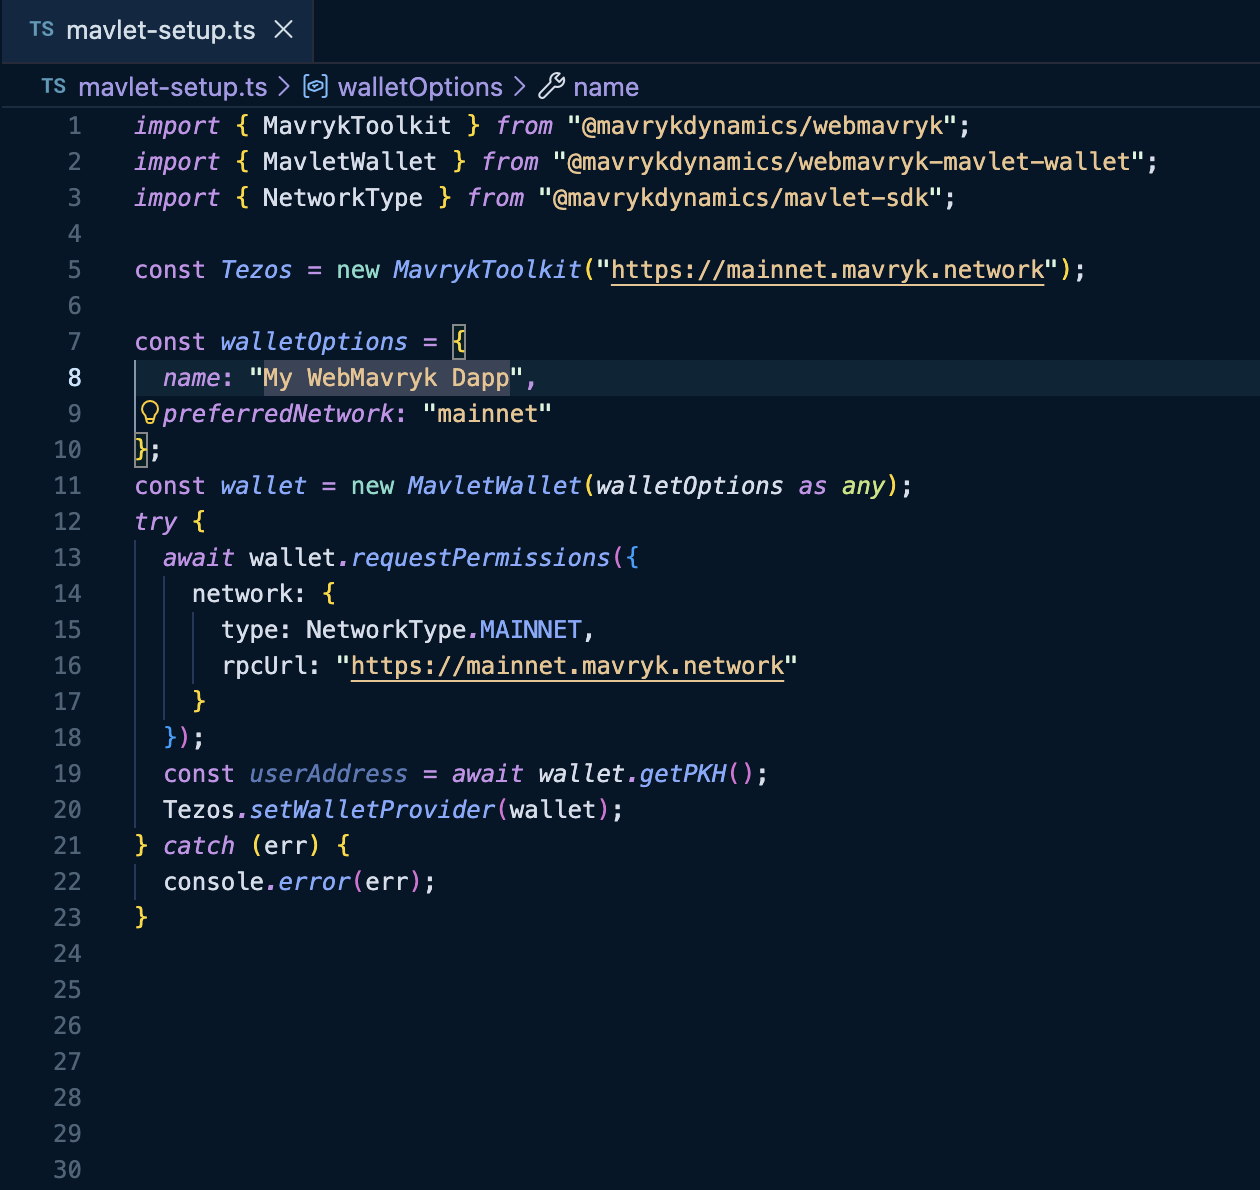
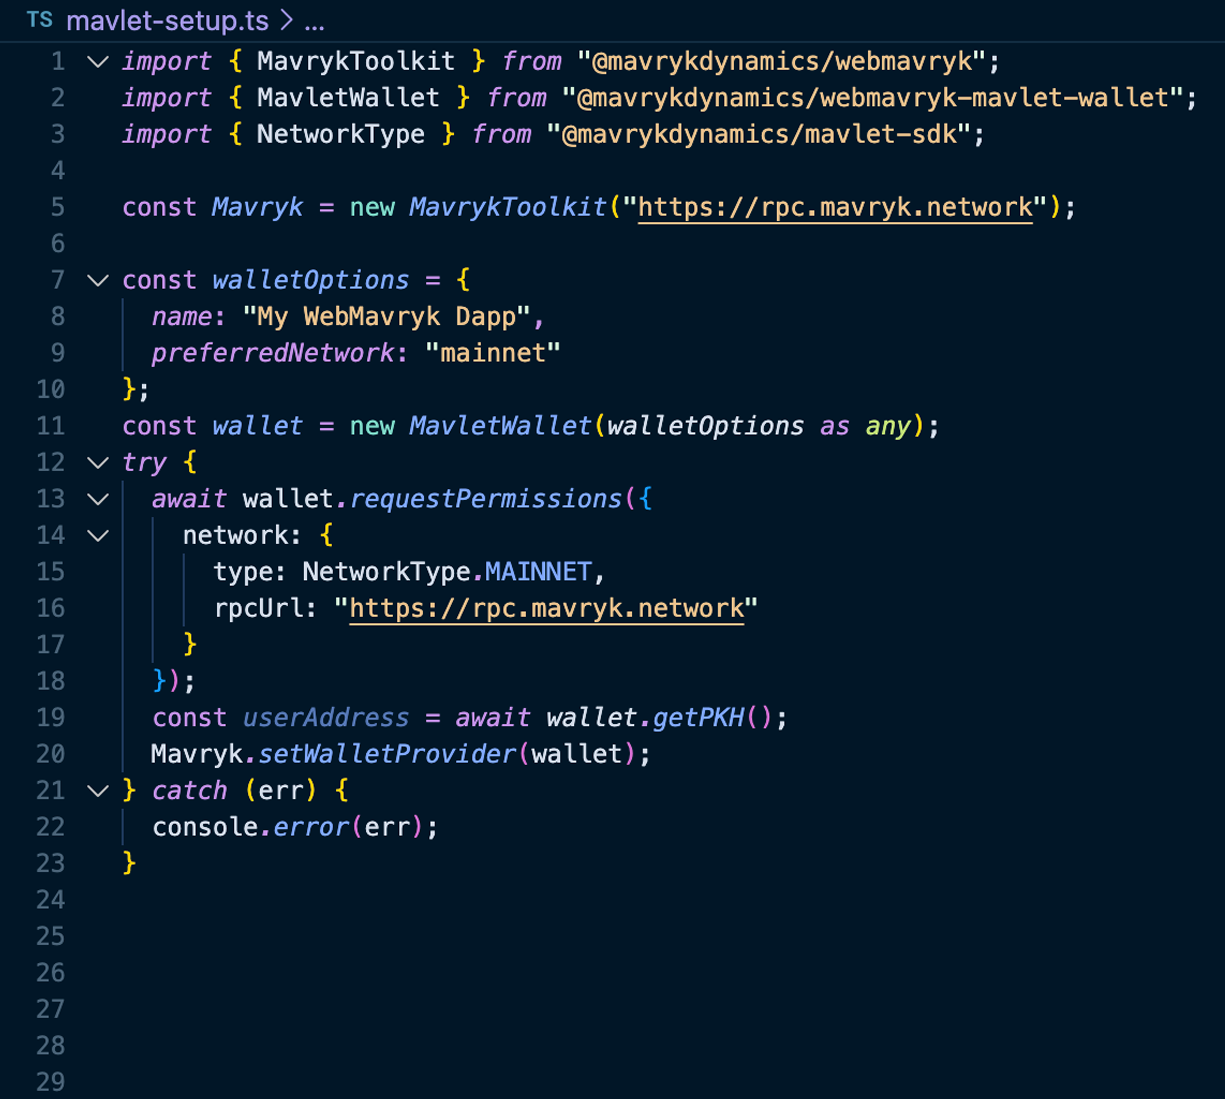
Documentation fixed

Changed region(s): [[0.0, 0.0, 1.0, 1.0]]

diff --git a/website/src/css/custom.scss b/website/src/css/custom.scss
@@ -12,6 +12,7 @@
   --blue-primary: #4169E1;
   --blue-secondary: #5B8DEF;
   --blue-accent: #3B82F6;
+  --blue-card-border: #5878B4;
   --red: #ac0000;
   --brown: #d3832b;
   --green: #71a417;
@@ -25,9 +26,9 @@
   --black: #1E293B;
   --white: #ffffff;
   --twitter-svg: url('../../static/img/XSVG-white.svg') no-repeat;
-  --github-svg: url('../../static/img/githubSVG-white.svg') no-repeat;
-  --github-svg-reverse: url('../../static/img/github-svg-white.svg') no-repeat;
-  --telegram-svg: url('../../static/img/telegramSVG.svg') no-repeat;
+  --github-svg: url('../../static/img/github-svg-white.svg') no-repeat;
+  --github-svg-reverse: url('../../static/img/githubSVG-white.svg') no-repeat;
+  --telegram-svg: url('../../static/img/telegram-svg-white.svg') no-repeat;
   --discord-svg: url('../../static/img/discord-mark-white.svg') no-repeat;
   --brown-secondary: #975b19;
   --background-dark: #1E293B;
@@ -83,11 +84,12 @@
 }
 
 [data-theme='dark'] {
-  --ifm-color-primary: #1E293B;
+  --ifm-color-primary: #14284C;
   --ifm-color-secondary: var(--blue-primary);
   --ifm-color-text-primary: var(--white);
   --ifm-color-text-secondary: var(--black);
   --ifm-color-hover-link: var(--blue-primary);
+  --blue-card-border: #5878B4;
   --twitter-svg: url('../../static/img/XSVG-white.svg') no-repeat;
   --github-svg: url('../../static/img/github-svg-white.svg') no-repeat;
   --github-svg-reverse: url('../../static/img/githubSVG.svg') no-repeat;
@@ -98,9 +100,9 @@
   --sidebar-text-color: #CBD5E1;
   --sidebar-link-bg: rgba(59, 130, 246, 0.2);
   --black-third: var(--white);
-  --docsearch-text-color: var(--white);
-  --docsearch-searchbox-background: #334155 !important;
-  --docsearch-searchbox-focus-background: #334155 !important;
+  --docsearch-text-color: var(--black);
+  --docsearch-searchbox-background: var(--white) !important;
+  --docsearch-searchbox-focus-background: var(--white) !important;
   --ifm-background-color: #0F172A;
   --ifm-navbar-background-color: #1b1b1d;
   --ifm-footer-background-color: #1b1b1d;
@@ -198,7 +200,7 @@ h2 {
   align-items: center;
 
   img {
-    height: 100%;
+    height: 175%;
     width: auto;
   }
 }

diff --git a/website/src/components/SimpleStep/SimpleStep.module.scss b/website/src/components/SimpleStep/SimpleStep.module.scss
@@ -21,13 +21,13 @@
   background-repeat: no-repeat;
   background-position: center 0px;
 
-  @media (max-width: 640px) {
-    background: none;
-    clip-path: none;
-    padding: 50px 10px;
-    background-color: #6F9CF3;
-    clip-path: polygon(0 0, 100% 0, 100% 95%, 0 100%);
-  }
+  // @media (max-width: 640px) {
+  //   background: none;
+  //   clip-path: none;
+  //   padding: 50px 10px;
+  //   // background-color: #6F9CF3;
+  //   clip-path: polygon(0 0, 100% 0, 100% 95%, 0 100%);
+  // }
 
   @media (max-width: 380px) {
     clip-path: polygon(0 0, 100% 0, 100% 97%, 0 100%);
@@ -40,10 +40,10 @@
   background-repeat: no-repeat;
   background-position: center 0px;
 
-  @media (max-width: 640px) {
-    background: none;
-    background-color: #2D497E;
-  }
+  // @media (max-width: 640px) {
+  //   background: none;
+  //   background-color: #2D497E;
+  // }
 }
 
 .content {

diff --git a/website/src/components/CardsGrid/CardsGrid.module.scss b/website/src/components/CardsGrid/CardsGrid.module.scss
@@ -119,7 +119,7 @@
 
 .cardBox {
   max-width: 315px;
-  border: 1px solid #262626;
+  border: 1px solid var(--blue-card-border);
   box-sizing: border-box;
   border-radius: 12px;
   padding: 30px;
@@ -154,9 +154,9 @@
 }
 
 [data-theme='light'] .cardSvg [stroke] {
-  stroke: var(--blue-primary);
+  stroke: var(--orange);
 }
 
 [data-theme='dark'] .cardSvg [stroke] {
-  stroke: var(--blue-primary);
+  stroke: var(--orange);
 }

diff --git a/website/src/components/Hero/Hero.module.scss b/website/src/components/Hero/Hero.module.scss
@@ -165,10 +165,10 @@
 .carouselBox {
   /* display: flex;
 	justify-content: flex-end; */
-  border: 30px solid #262626;
+  border: 30px solid var(--blue-primary);
   box-shadow: 0px 4px 10px 5px rgba(0, 0, 0, 0.15);
   border-radius: 13px;
-  background-color: #262626;
+  background-color: var(--blue-primary);
 }
 
 video {
